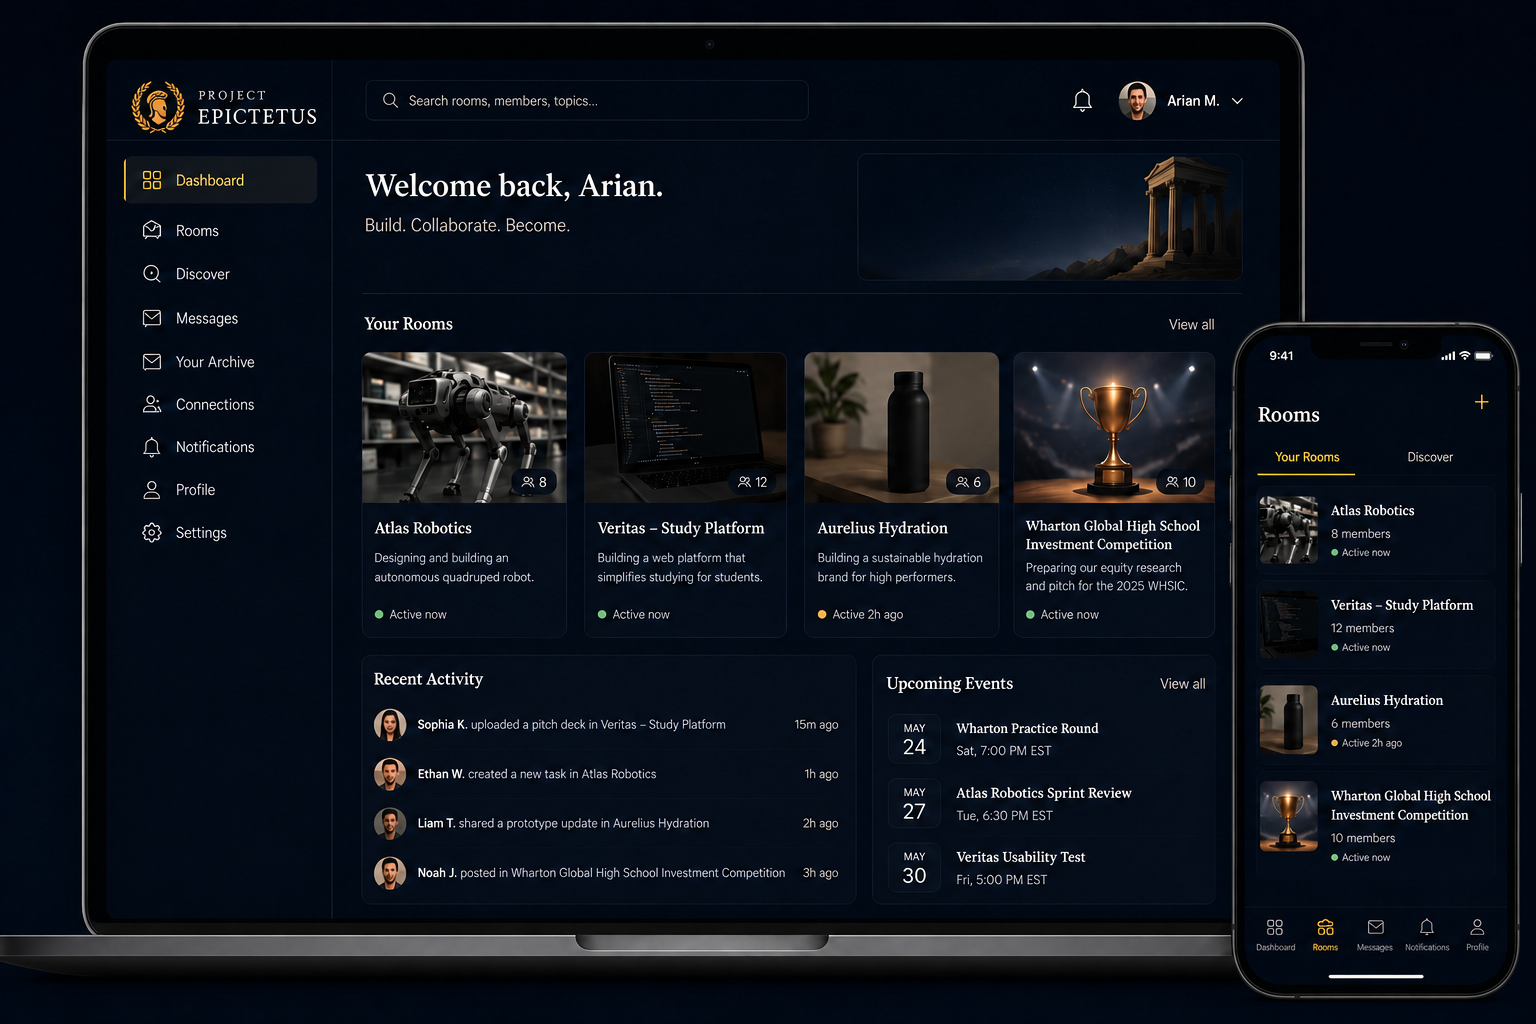
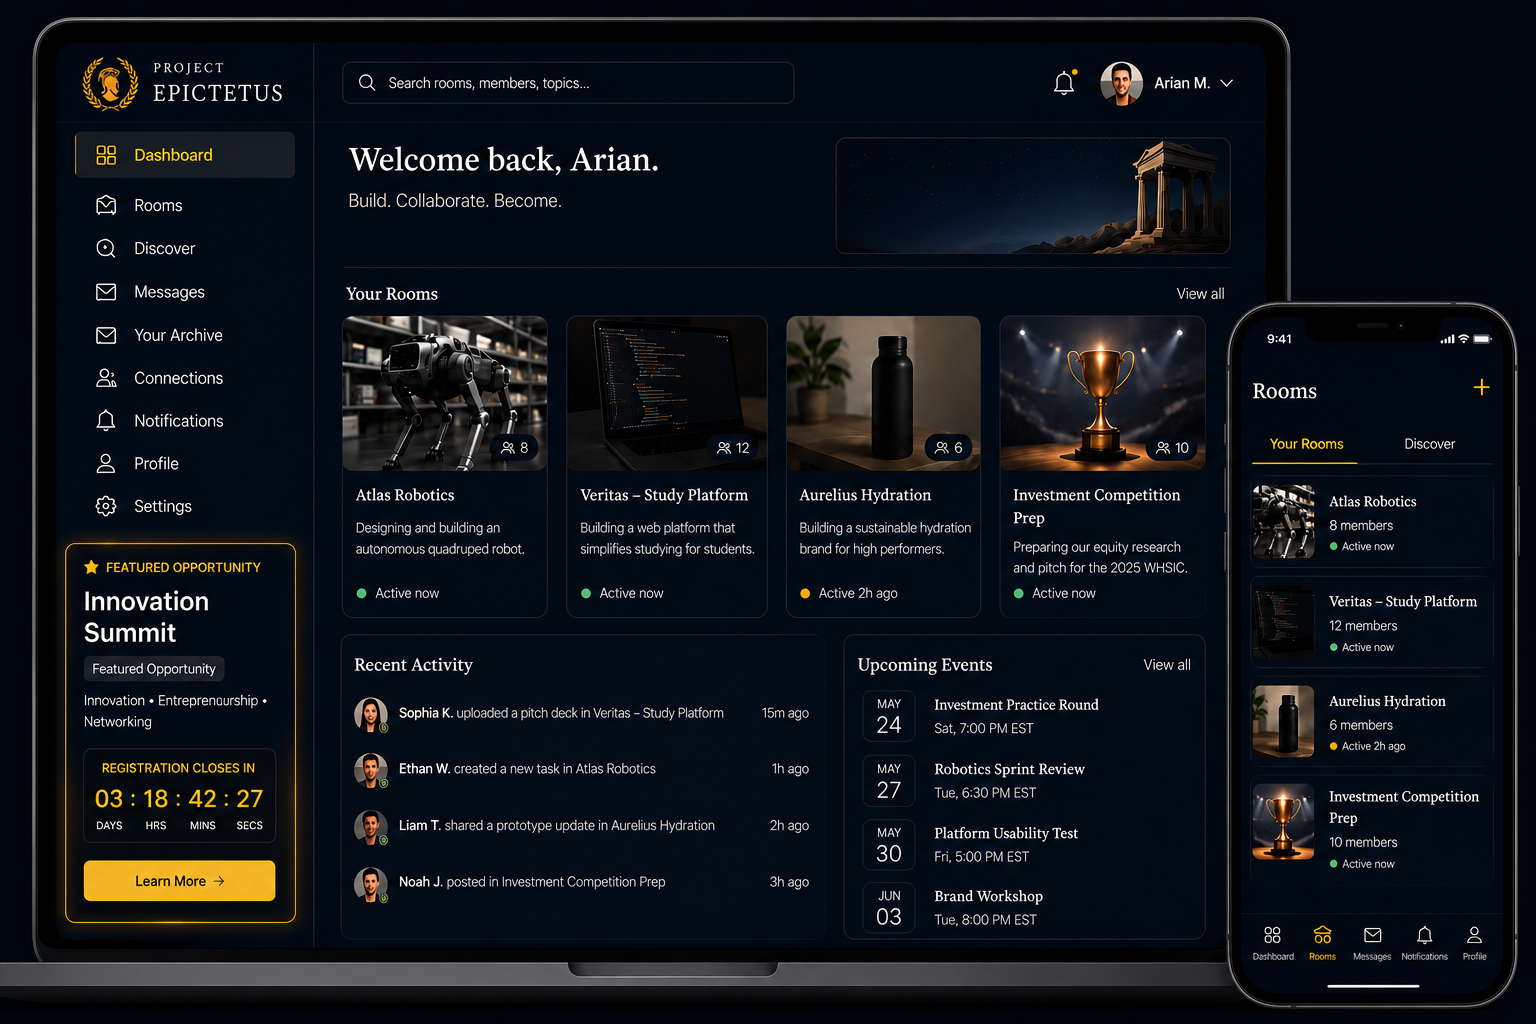
Add floating share button

diff --git a/submit.js b/submit.js
@@ -67,3 +67,54 @@ form.addEventListener("submit", async (e) => {
     }
 
 });
+
+//dasdas
+const shareButton = document.querySelector("#share-button");
+
+shareButton.addEventListener("click", async (e) => {
+    e.preventDefault();
+
+    const shareData = {
+        title: "Project Epictetus",
+        text: "Join Project Epictetus — a community built for ambitious students.",
+        url: "https://epictetusproject.com"
+    };
+
+    if (navigator.share) {
+        await navigator.share(shareData);
+    } else {
+        await navigator.clipboard.writeText(shareData.url);
+        alert("Website link copied to clipboard!");
+    }
+});
+
+const shareFab = document.querySelector("#share-fab");
+
+shareFab.addEventListener("click", async () => {
+
+    const shareData = {
+        title: "Project Epictetus",
+        text: "Join Project Epictetus — a community for ambitious students.",
+        url: "https://epictetusproject.com"
+    };
+
+    try {
+
+        if (navigator.share) {
+
+            await navigator.share(shareData);
+
+        } else {
+
+            await navigator.clipboard.writeText(shareData.url);
+            alert("Link copied to clipboard!");
+
+        }
+
+    } catch (error) {
+
+        console.error(error);
+
+    }
+
+});

diff --git a/styles.css b/styles.css
@@ -368,7 +368,44 @@ footer {
 
 }
 
+#share-fab {
 
+    position: fixed;
+
+    right: 30px;
+    bottom: 30px;
+
+    width: 60px;
+    height: 60px;
+
+    background: var(--accent);
+
+    border: 2px solid #FFFFF0;
+
+    border-radius: 50%;
+
+    display: flex;
+    justify-content: center;
+    align-items: center;
+
+    cursor: pointer;
+
+    box-shadow: 0 10px 30px rgba(0,0,0,.35);
+
+    transition: .2s;
+
+    z-index: 1000;
+
+}
+
+#share-fab img {
+
+    width: 60px;
+    height: 60px;
+
+    object-fit: contain;
+
+}
 
 @media(max-width:1200px){
 

diff --git a/index.html b/index.html
@@ -76,8 +76,9 @@
             <a href="#problem" class="button secondary">
                 Learn More
             </a>
+            
         </div>
-
+        
     </div>
 
 
@@ -320,10 +321,14 @@
     <p>
         © Project Epictetus. All rights reserved.
     </p>
-
+    <br>
+    <a href="#" class="button secondary" id="share-button">
+        Share
+    </a>
 </footer>
-
+<button id="share-fab" aria-label="Share">
+    <img src="imgs/share-icon.png" alt="">
+</button>
 <script type="module" src="submit.js"></script>
-
 </body>
 </html>
